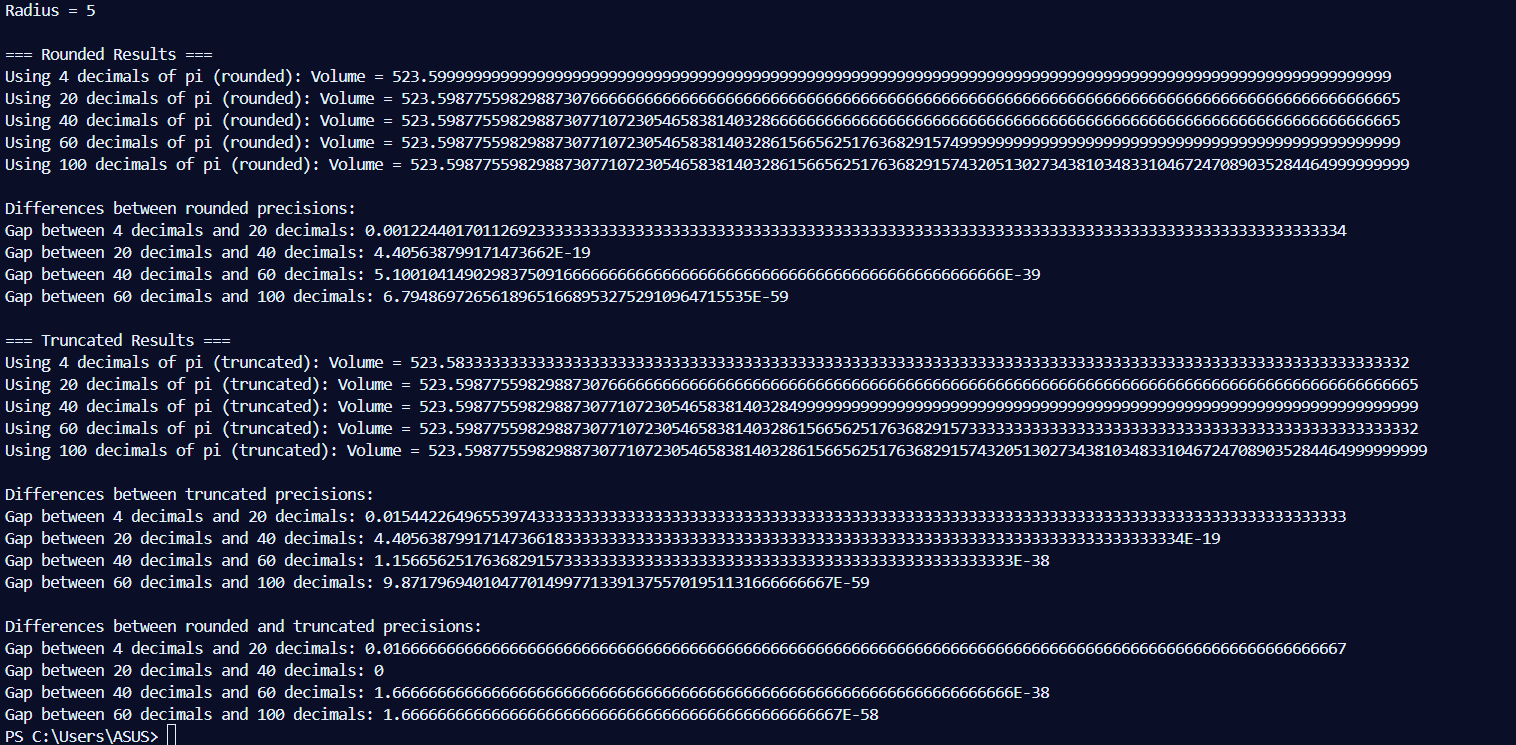
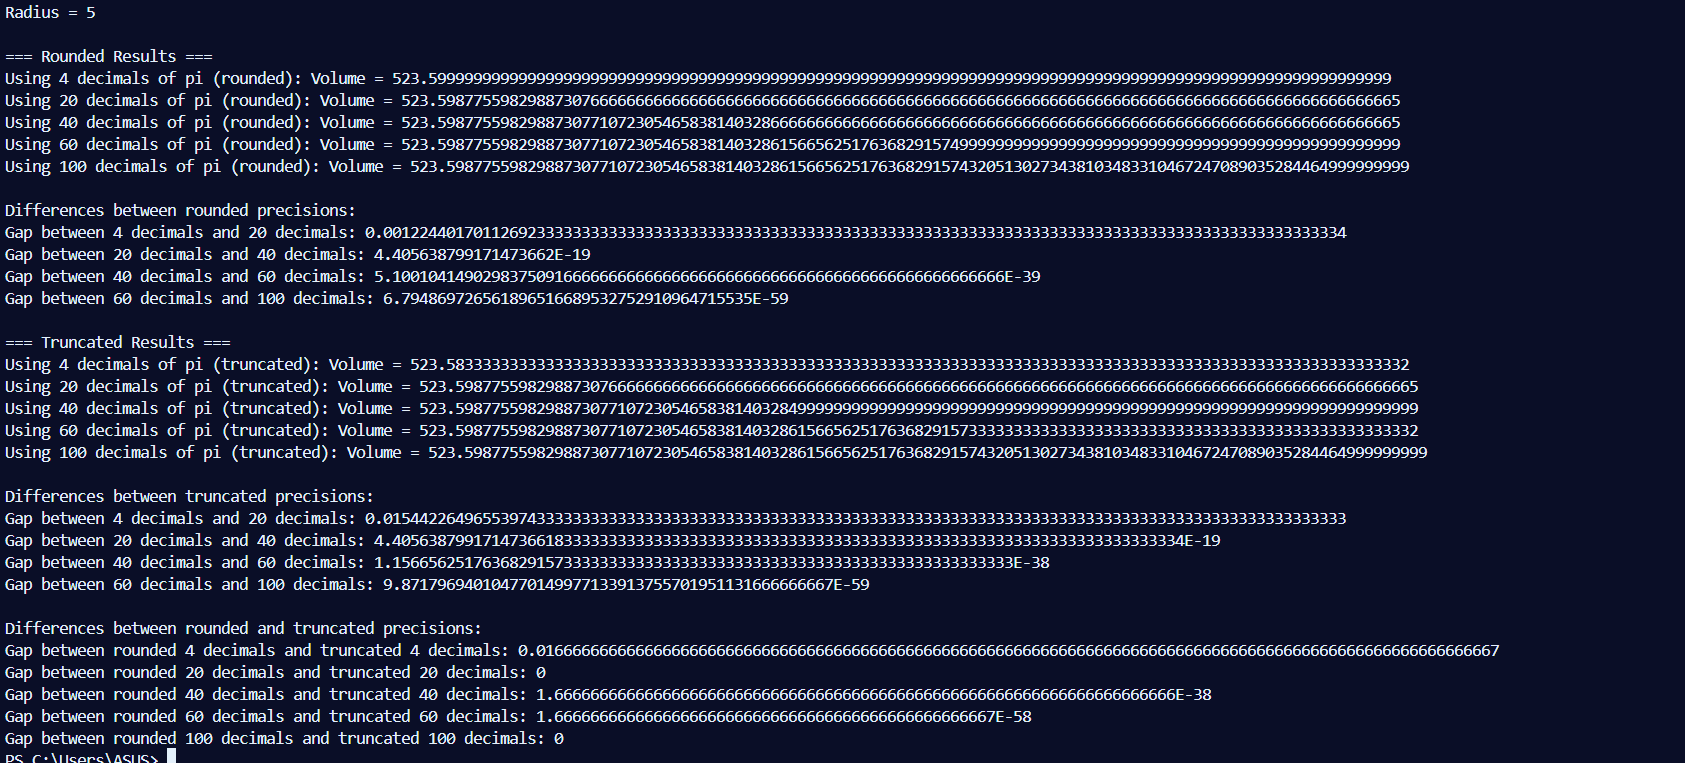
Updated

Changed region(s): [[0.0, 0.4322, 0.9611, 1.0], [0.0, 0.0617, 0.9301, 0.4013], [0.0, 0.0, 0.062, 0.0309]]

diff --git a/Assignment_Pi.py b/Assignment_Pi.py
@@ -73,9 +73,10 @@ for i in range(len(labels) - 1):
 
 print("\nDifferences between rounded and truncated precisions:")
 labels = list(areas_truncated.keys())
-for i in range(len(labels) - 1):
-    diff = abs(areas_rounded[labels[i]] - areas_truncated[labels[i]])
-    print(f"Gap between rounded {labels[i]} and truncated {labels[i]}: {diff.normalize()}")
+for label in labels:
+    diff = abs(areas_rounded[label] - areas_truncated[label])
+    print(f"Gap between rounded {label} and truncated {label}: {diff.normalize()}")
+
 
 #===============================================================================with graphics
 from decimal import Decimal, getcontext
@@ -220,9 +221,9 @@ for i in range(len(labels) - 1):
 
 print("\nDifferences between rounded and truncated precisions:")
 labels = list(formula_truncated.keys())
-for i in range(len(labels) - 1):
-    diff = abs(formula_rounded[labels[i]] - formula_truncated[labels[i+1]])
-    print(f"Gap between {labels[i]} and {labels[i+1]}: {diff.normalize()}")
+for label in labels:
+    diff = abs(formula_rounded[label] - formula_truncated[label])
+    print(f"Gap between rounded {label} and truncated {label}: {diff.normalize()}")
 
 #============================================================================
 #============================================================================
@@ -301,9 +302,9 @@ for i in range(len(labels) - 1):
 
 print("\nDifferences between rounded and truncated precisions:")
 labels = list(volumes_truncated.keys())
-for i in range(len(labels) - 1):
-    diff = abs(volumes_rounded[labels[i]] - volumes_truncated[labels[i]])
-    print(f"Gap between {labels[i]} and {labels[i+1]}: {diff.normalize()}")
+for label in labels:
+    diff = abs(volumes_rounded[label] - volumes_truncated[label])
+    print(f"Gap between rounded {label} and truncated {label}: {diff.normalize()}")
 
 # #============================================================================
 # #============================================================================
